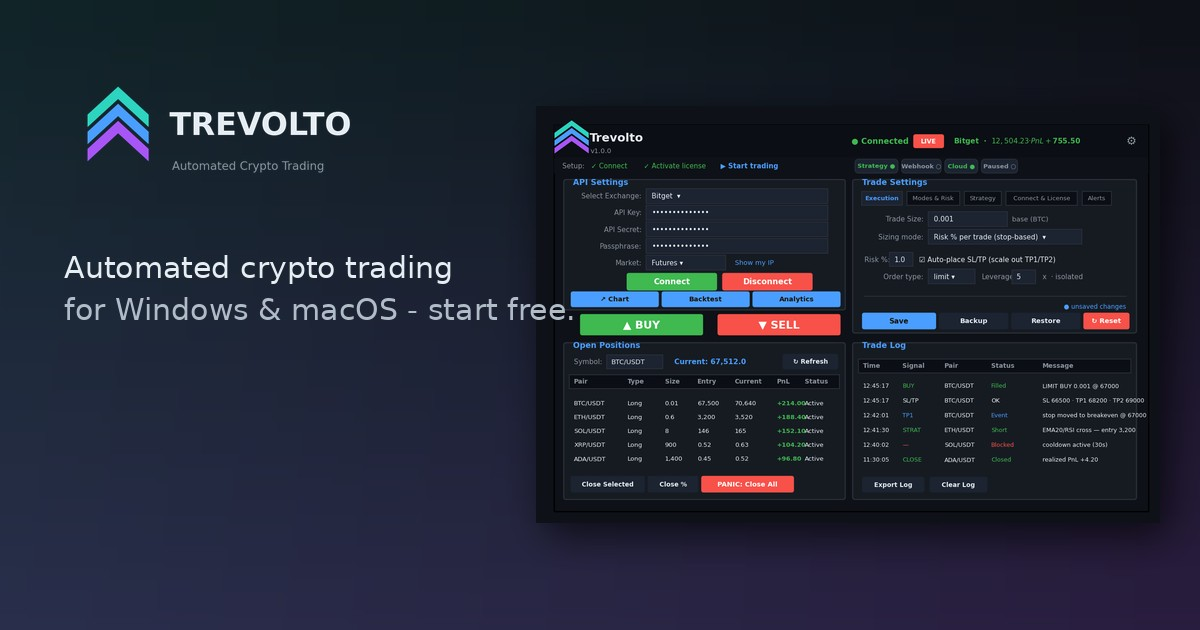
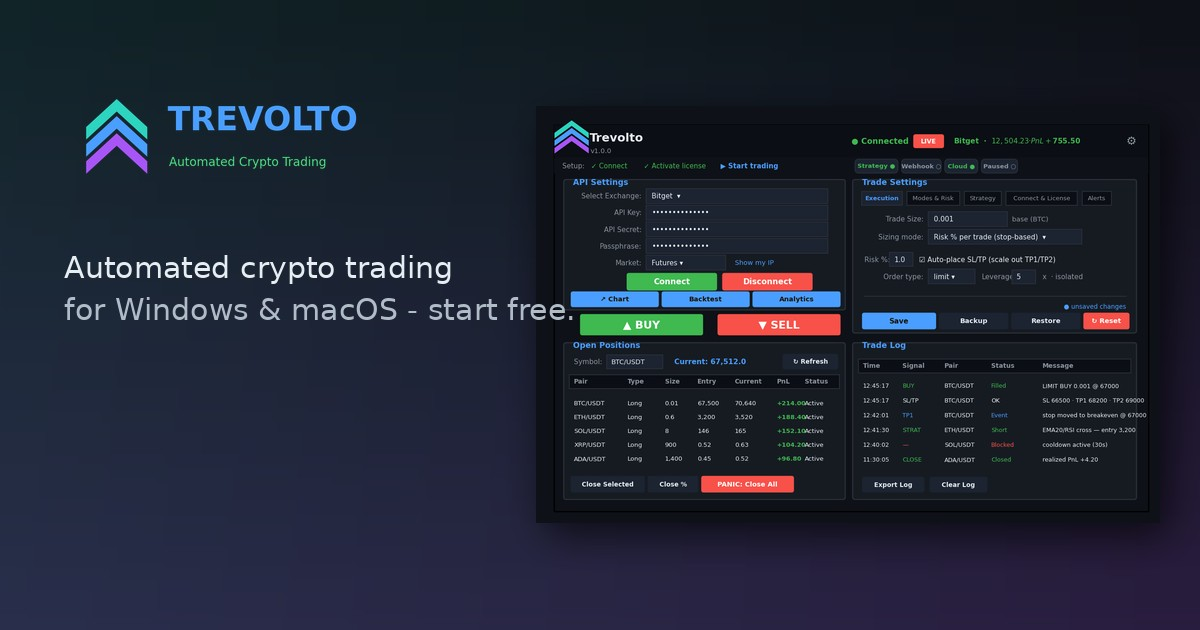
Trevolto wordmark: blue name + light-green tagline, mark aligned to text
- make_logo.py: 'TREVOLTO' now signal blue (#4a9eff), tagline light green
  (#4ade80); chevron mark vertically centred against the full text block.
- Regenerated logo_wordmark.png and the site OG card (og-trevolto.jpg, which
  embeds the wordmark). The chevron mark itself is unchanged.

Changed region(s): [[0.0617, 0.1206, 0.3083, 0.2714]]

diff --git a/trevolto/make_logo.py b/trevolto/make_logo.py
@@ -7,6 +7,8 @@ from matplotlib.patches import Polygon
 
 C1, C2, C3 = "#2dd4bf", "#4a9eff", "#a855f7"   # teal -> blue -> violet
 TXT, DIM = "#e6edf3", "#8b949e"
+NAME = "#4a9eff"   # wordmark "TREVOLTO" — signal blue
+TAG = "#4ade80"    # tagline — light green
 
 
 def chevrons(ax, cx, cy, scale=1.0, gap=0.55):
@@ -29,9 +31,10 @@ def save_wordmark(path):
     fig, ax = plt.subplots(figsize=(12, 3.4), dpi=120)
     fig.patch.set_alpha(0)
     ax.set_xlim(-3, 13); ax.set_ylim(-2, 2); ax.axis("off")
-    chevrons(ax, -1.4, -0.05, scale=0.92)
-    ax.text(0.4, 0.35, "TREVOLTO", color=TXT, fontsize=44, fontweight="bold", va="center", ha="left")
-    ax.text(0.5, -0.85, "Automated Crypto Trading", color=DIM, fontsize=16, va="center", ha="left")
+    # mark vertically centred against the full text block (name + tagline)
+    chevrons(ax, -1.45, -0.45, scale=0.92)
+    ax.text(0.35, 0.5, "TREVOLTO", color=NAME, fontsize=46, fontweight="bold", va="center", ha="left")
+    ax.text(0.40, -0.72, "Automated Crypto Trading", color=TAG, fontsize=16.5, va="center", ha="left")
     fig.savefig(path, dpi=120, transparent=True, bbox_inches="tight", pad_inches=0.2)
     plt.close(fig); print("wrote", path)
 
